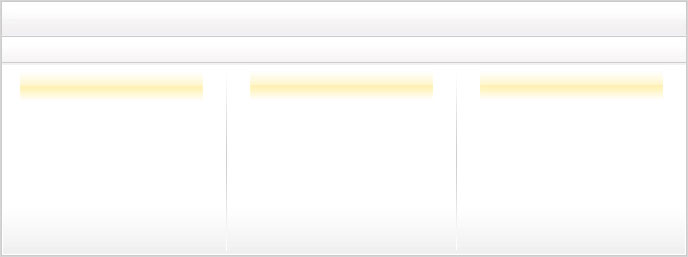
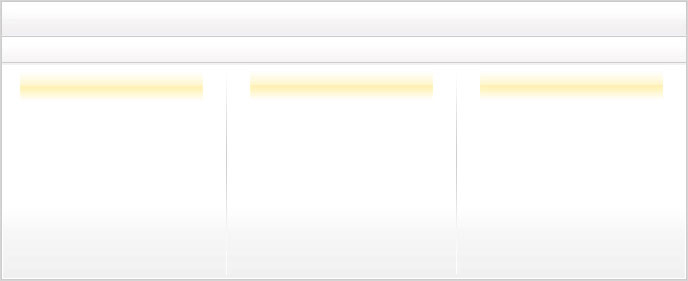
css

diff --git a/user/view/default/public/head.html b/user/view/default/public/head.html
@@ -57,7 +57,7 @@ td {font-family: Arial, Helvetica, sans-serif;font-size: 13px;}
 
 .right_top{padding-top:0px;padding-right:0px;}
 .topimg3 {text-align:left;background:url(/user{{$STATIC}}images/dmain.jpg) 0px no-repeat;line-height:82px;height:223px;width:689px;}
-.host_bg {text-align:left;background:url(/user{{$STATIC}}images/r_zj.jpg) 0px no-repeat;line-height:82px;height:257px;width:689px;}
+.host_bg {text-align:left;background:url(/user{{$STATIC}}images/r_zj.jpg) 0px no-repeat;line-height:82px;height:281px;width:689px;}
 .color_red{color:#FF0000;}
 .color_orange{color:#D7631A;}
 .right_blue{color:#048ABF;}
